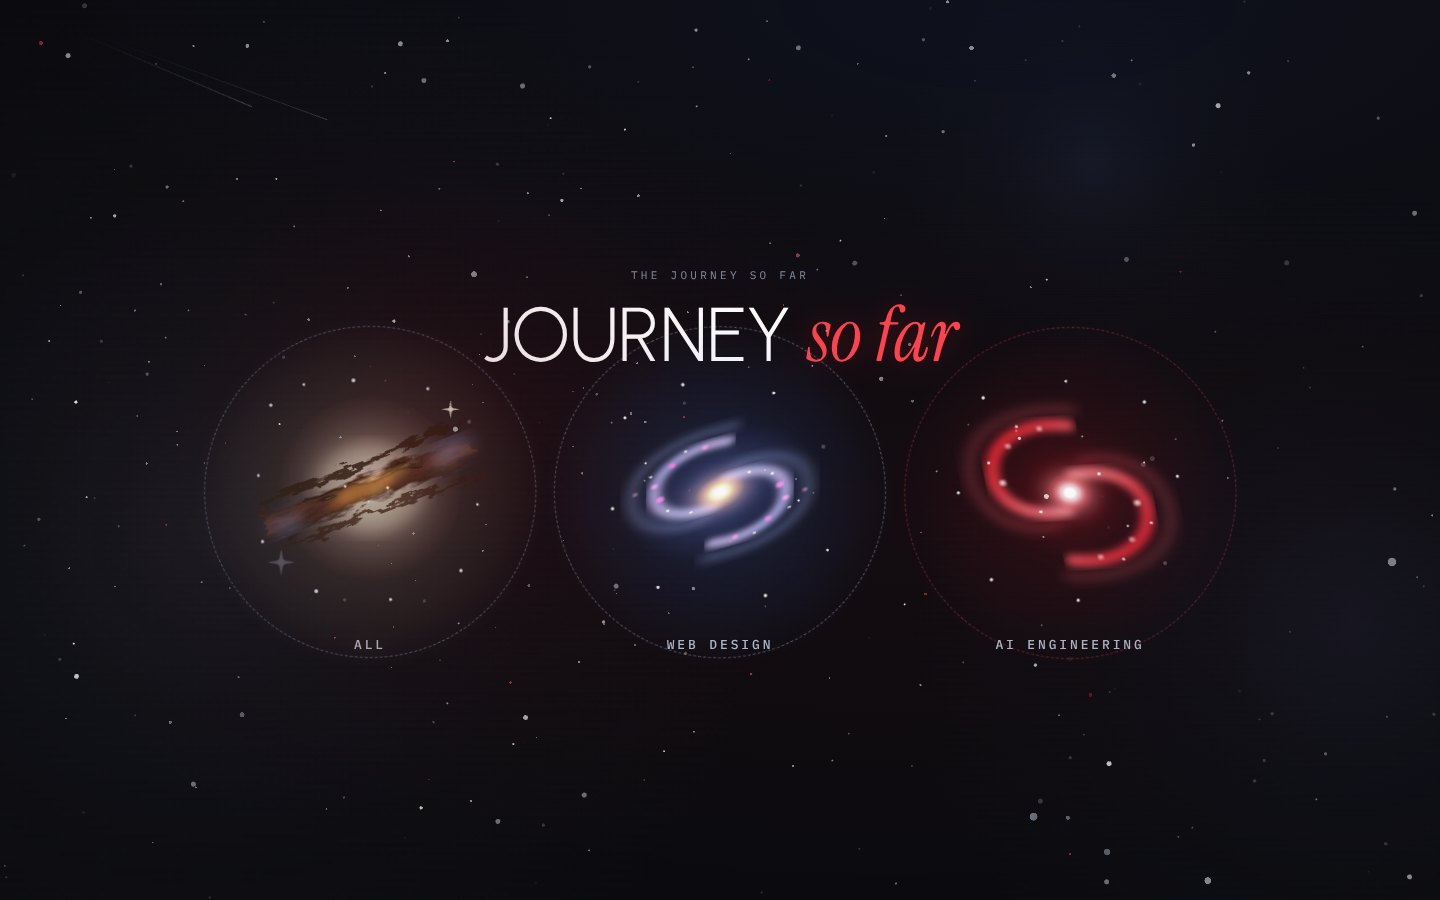
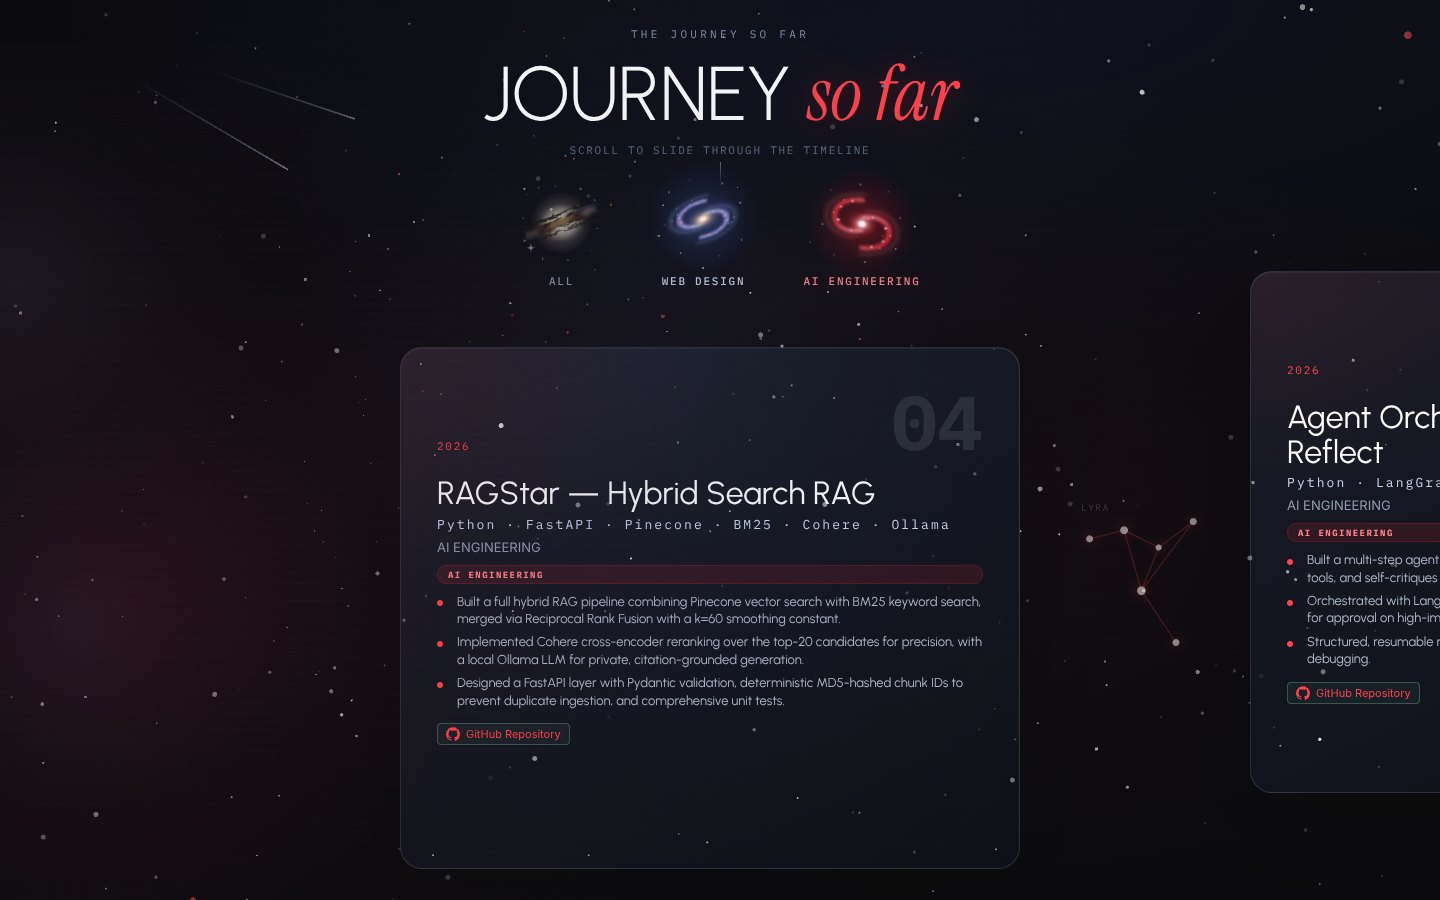
Finder opens on Projects, Journey on AI; fix Terminal first click
- Observer Finder opens on Projects with larger cards (two-line descriptions);
  all six AI projects fit at once, OpenJev and later additions scroll.
- Dock Terminal glitch: the full-screen class was only applied when the
  overlay was reused, so the first click rendered it off-screen. Apply it
  on creation too, and hold the effect 0.5s longer (1.2s -> 1.7s).
- Journey So Far opens on the AI Engineering tab and adds Jericho, Semantic
  Cache, Zetsu and OpenJev (in development) cards.
- README text and screenshots updated.

Claude-Session: https://claude.ai/code/session_015pYCkSWb3QZMS1jhky79RR

diff --git a/index.html b/index.html
@@ -392,9 +392,9 @@
   .finder-smile-overlay svg{width:min(72%,340px);height:auto;filter:drop-shadow(0 24px 70px rgba(0,0,0,.55));transform:rotate(-8deg)}
 
   /* ---- Finder Projects — observer-style clickable cards ---- */
-  .desktop-pane .df-cards{grid-column:1/-1;display:grid;grid-template-columns:repeat(auto-fill,minmax(180px,1fr));gap:var(--space-4);padding:10px 6px 12px 2px;
-    max-height:min(31rem,62vh);overflow-y:auto;scrollbar-width:thin;scrollbar-color:transparent transparent;transition:scrollbar-color .3s}
-  /* the grid scrolls once it outgrows the pane (more than six cards); its scrollbar shows on hover */
+  .desktop-pane .df-cards{grid-column:1/-1;display:grid;grid-template-columns:repeat(auto-fill,minmax(210px,1fr));gap:var(--space-4);padding:14px 6px 14px 2px;
+    max-height:38rem;overflow-y:auto;scrollbar-width:thin;scrollbar-color:transparent transparent;transition:scrollbar-color .3s}
+  /* six cards (three rows) fit; the grid scrolls once it outgrows that, its scrollbar shows on hover */
   .desktop-pane .df-cards:hover{scrollbar-color:rgba(233,228,223,.28) transparent}
   .desktop-pane .df-cards::-webkit-scrollbar{width:6px}
   .desktop-pane .df-cards::-webkit-scrollbar-thumb{background:transparent;border-radius:99px}
@@ -404,7 +404,7 @@
     font-family:var(--font-mono);font-size:var(--text-2xs);font-weight:500;letter-spacing:.08em;text-transform:uppercase;text-decoration:none;
     color:#ffd9dc;background:rgba(211,18,31,.22);border:1px solid rgba(255,59,71,.45);transition:background .2s,color .2s,box-shadow .2s}
   .desktop-pane .df-card__live:hover,.desktop-pane .df-card__live:focus-visible{background:#d3121f;color:#fff;box-shadow:0 0 16px rgba(211,18,31,.6)}
-  .desktop-pane .df-card{position:relative;display:flex;flex-direction:column;justify-content:space-between;height:9rem;user-select:none;border:2px solid rgba(174,182,200,.16);border-radius:12px;background:rgba(20,22,30,.66);padding:12px 14px;transform:skewY(-4deg);transition:border-color .6s ease,background .6s ease,filter .6s ease,transform .6s ease;filter:grayscale(1);box-shadow:0 18px 50px rgba(0,0,0,.3);cursor:pointer;text-decoration:none;color:inherit;overflow:hidden}
+  .desktop-pane .df-card{position:relative;display:flex;flex-direction:column;justify-content:space-between;height:10.5rem;user-select:none;border:2px solid rgba(174,182,200,.16);border-radius:12px;background:rgba(20,22,30,.66);padding:12px 14px;transform:skewY(-4deg);transition:border-color .6s ease,background .6s ease,filter .6s ease,transform .6s ease;filter:grayscale(1);box-shadow:0 18px 50px rgba(0,0,0,.3);cursor:pointer;text-decoration:none;color:inherit;overflow:hidden}
   .desktop-pane .df-card::before{content:"";position:absolute;inset:0;border-radius:10px;background:rgba(3,3,7,.38);transition:opacity .6s ease;pointer-events:none}
   .desktop-pane .df-card::after{content:"";position:absolute;top:-4%;right:-3px;width:70%;height:108%;background:linear-gradient(to left,#030307,transparent);pointer-events:none}
   .desktop-pane .df-card:hover,.desktop-pane .df-card.is-selected{border-color:rgba(255,255,255,.24);background:rgba(28,30,40,.85);filter:grayscale(0);transform:skewY(-4deg) translateY(-8px)}
@@ -412,13 +412,14 @@
   .desktop-pane .df-card__row,.desktop-pane .df-card__desc,.desktop-pane .df-card__date{position:relative;z-index:1}
   .desktop-pane .df-card__row{display:flex;align-items:center;gap:var(--space-2)}
   .desktop-pane .df-card__icon{display:inline-flex;width:20px;height:20px;align-items:center;justify-content:center;border-radius:999px;font-size:var(--text-sm);flex-shrink:0}
-  .desktop-pane .df-card__title{font-family:var(--font-mono);font-size:var(--text-sm);color:var(--silver);letter-spacing:var(--tr-normal);overflow:hidden;text-overflow:ellipsis;white-space:nowrap}
+  .desktop-pane .df-card__title{font-family:var(--font-mono);font-size:var(--text-base);color:var(--silver);letter-spacing:var(--tr-normal);overflow:hidden;text-overflow:ellipsis;white-space:nowrap}
   .desktop-pane .df-card__tag{font-family:var(--font-mono);font-size:var(--text-2xs);font-weight:700;letter-spacing:var(--tr-wide);padding:2px 7px;border-radius:999px;line-height:1.3;margin-left:auto;white-space:nowrap;flex-shrink:0}
   .desktop-pane .df-card__tag--web{background:rgba(47,107,255,.18);color:#a9c1ff;border:1px solid rgba(47,107,255,.3)}
   .desktop-pane .df-card__tag--ai{background:rgba(211,18,31,.18);color:#ff8088;border:1px solid rgba(211,18,31,.3)}
   .desktop-pane .df-card__tag--fullstack{background:rgba(179,33,158,.18);color:#e7a3dc;border:1px solid rgba(179,33,158,.3)}
   .desktop-pane .df-card__tag--mobile{background:rgba(255,106,19,.18);color:#ffb27d;border:1px solid rgba(255,106,19,.3)}
-  .desktop-pane .df-card__desc{font-size:var(--text-sm);color:#d4d0c6;margin-top:auto;padding-bottom:2px;overflow:hidden;text-overflow:ellipsis;white-space:nowrap}
+  .desktop-pane .df-card__desc{font-size:var(--text-sm);color:#d4d0c6;margin-top:auto;padding-bottom:2px;line-height:1.4;overflow:hidden;display:-webkit-box;-webkit-box-orient:vertical;-webkit-line-clamp:2}
+  .desktop-pane .df-card:has(.df-card__live) .df-card__desc{padding-right:64px}
   .desktop-pane .df-card__date{font-family:var(--font-mono);font-size:var(--text-2xs);letter-spacing:var(--tr-label);color:#8f98ad}
 
   /* ---- AI Agents — architecture map ---- */
@@ -579,6 +580,8 @@
   .journey-viewport.is-open .journey-card:nth-child(6){animation-delay:.35s}
   .journey-viewport.is-open .journey-card:nth-child(7){animation-delay:.42s}
   .journey-viewport.is-open .journey-card:nth-child(8){animation-delay:.49s}
+  .journey-viewport.is-open .journey-card:nth-child(9){animation-delay:.56s}
+  .journey-viewport.is-open .journey-card:nth-child(10){animation-delay:.63s}
   @keyframes jcardIn{from{opacity:0;transform:translateY(46px) scale(.97)}to{opacity:1;transform:none}}
   @media (prefers-reduced-motion:reduce){.journey-viewport.is-idle .jgal,.journey-viewport.is-idle .jgal::before,.journey-viewport.is-idle .jgal::after,.journey-viewport.is-open .journey-card{animation:none}}
   .journey-card[data-hidden]{display:none!important}
@@ -1238,8 +1241,8 @@
       <div class="desktop-grid">
         <aside class="desktop-sidebar" aria-label="Finder sidebar">
           <span class="sb-head">Favorites</span>
-          <span class="sb-item is-active" data-section="all"><i></i>All Work</span>
-          <span class="sb-item sb-item--proj" data-section="projects"><i></i>Projects</span>
+          <span class="sb-item" data-section="all"><i></i>All Work</span>
+          <span class="sb-item sb-item--proj is-active" data-section="projects"><i></i>Projects</span>
           <span class="sb-item sb-item--case" data-section="agents"><i></i>AI Agents</span>
           <span class="sb-item sb-item--web" data-section="web"><i></i>Web &amp; Apps</span>
           <span class="sb-head">Locations</span>
@@ -1247,7 +1250,7 @@
         </aside>
         <div class="desktop-pane">
           <div class="desktop-pane-head">
-            <h2 id="desktopTitle">All Work</h2>
+            <h2 id="desktopTitle">Projects</h2>
             <small id="desktopMeta">10 items · updated today</small>
           </div>
           <div class="desktop-files" id="desktopFiles">
@@ -1627,6 +1630,95 @@
         </ul>
         <div style="margin-top:14px">
           <a href="https://github.com/Alistair77/agent-evals" target="_blank" class="quick-look-link" style="display:inline-flex;align-items:center;gap:6px">
+            <svg style="width:14px;height:14px;fill:currentColor;vertical-align:middle" viewBox="0 0 24 24"><path d="M12 .297c-6.63 0-12 5.373-12 12 0 5.303 3.438 9.8 8.205 11.385.6.113.82-.258.82-.577 0-.285-.01-1.04-.015-2.04-3.338.724-4.042-1.61-4.042-1.61C4.422 18.07 3.633 17.7 3.633 17.7c-1.087-.744.084-.729.084-.729 1.205.084 1.838 1.236 1.838 1.236 1.07 1.835 2.809 1.305 3.495.998.108-.776.417-1.305.76-1.605-2.665-.3-5.466-1.332-5.466-5.93 0-1.31.465-2.38 1.235-3.22-.135-.303-.54-1.523.105-3.176 0 0 1.005-.322 3.3 1.23.96-.267 1.98-.399 3-.405 1.02.006 2.04.138 3 .405 2.28-1.552 3.285-1.23 3.285-1.23.645 1.653.24 2.873.12 3.176.765.84 1.23 1.91 1.23 3.22 0 4.61-2.805 5.625-5.475 5.92.42.36.81 1.096.81 2.22 0 1.606-.015 2.896-.015 3.286 0 .315.21.69.825.57C20.565 22.092 24 17.592 24 12.297c0-6.627-5.373-12-12-12"/></svg>
+            GitHub Repository
+          </a>
+        </div>
+      </article></div>
+      <div class="journey-card" data-category="ai"><svg class="jc jc--right" viewBox="0 0 200 280" aria-hidden="true">
+        <path d="M40 60 L80 50 L120 70 L160 40 M80 50 L100 120 L160 40 M120 70 L100 120 L140 180"/>
+        <circle cx="40" cy="60" r="4"/><circle cx="80" cy="50" r="4.5"/><circle cx="120" cy="70" r="3.5"/><circle cx="160" cy="40" r="4"/><circle cx="100" cy="120" r="5"/><circle cx="140" cy="180" r="4"/>
+        <text x="30" y="28">CRUX</text>
+      </svg><article class="journey-card__inner" style="--i:7">
+        <div class="journey-card__top"><p class="slide-date">2026</p><span class="journey-card__no">07</span></div>
+        <h3>Jericho — Live AI Agent Dashboard</h3>
+        <span class="slide-role">Three.js · Claude Code hooks · Shell · Python</span>
+        <span class="slide-meta">AI ENGINEERING</span>
+        <span class="slide-cat slide-cat--ai">AI ENGINEERING</span>
+        <ul class="journey-bullets">
+          <li>A live 3D Mars base where each of 30 Claude Code skills is a crew bot — when a skill really runs, its bot walks to its building and a progress bar fills above it.</li>
+          <li>A ~30-line Claude Code hook (PreToolUse / PostToolUse) writes the actual skill start and finish to a status file the page reads — idle means idle, no fake activity.</li>
+          <li>One HTML file with no install or build step: five weather modes, a calm notifications panel and real Mars time at Jezero Crater.</li>
+        </ul>
+        <div style="margin-top:14px">
+          <a href="https://github.com/Alistair77/Jericho-Agentic-Space-Station" target="_blank" class="quick-look-link" style="display:inline-flex;align-items:center;gap:6px">
+            <svg style="width:14px;height:14px;fill:currentColor;vertical-align:middle" viewBox="0 0 24 24"><path d="M12 .297c-6.63 0-12 5.373-12 12 0 5.303 3.438 9.8 8.205 11.385.6.113.82-.258.82-.577 0-.285-.01-1.04-.015-2.04-3.338.724-4.042-1.61-4.042-1.61C4.422 18.07 3.633 17.7 3.633 17.7c-1.087-.744.084-.729.084-.729 1.205.084 1.838 1.236 1.838 1.236 1.07 1.835 2.809 1.305 3.495.998.108-.776.417-1.305.76-1.605-2.665-.3-5.466-1.332-5.466-5.93 0-1.31.465-2.38 1.235-3.22-.135-.303-.54-1.523.105-3.176 0 0 1.005-.322 3.3 1.23.96-.267 1.98-.399 3-.405 1.02.006 2.04.138 3 .405 2.28-1.552 3.285-1.23 3.285-1.23.645 1.653.24 2.873.12 3.176.765.84 1.23 1.91 1.23 3.22 0 4.61-2.805 5.625-5.475 5.92.42.36.81 1.096.81 2.22 0 1.606-.015 2.896-.015 3.286 0 .315.21.69.825.57C20.565 22.092 24 17.592 24 12.297c0-6.627-5.373-12-12-12"/></svg>
+            GitHub Repository
+          </a>
+          <a href="https://alistair77.github.io/Jericho-Agentic-Space-Station/" target="_blank" rel="noopener" class="quick-look-link" style="display:inline-flex;align-items:center;gap:6px;margin-left:8px">Live ↗</a>
+        </div>
+      </article></div>
+      <div class="journey-card" data-category="ai"><svg class="jc jc--left" viewBox="0 0 200 280" aria-hidden="true">
+        <path d="M40 60 L80 50 L120 70 L160 40 M80 50 L100 120 L160 40 M120 70 L100 120 L140 180"/>
+        <circle cx="40" cy="60" r="4"/><circle cx="80" cy="50" r="4.5"/><circle cx="120" cy="70" r="3.5"/><circle cx="160" cy="40" r="4"/><circle cx="100" cy="120" r="5"/><circle cx="140" cy="180" r="4"/>
+        <text x="30" y="28">PYXIS</text>
+      </svg><article class="journey-card__inner" style="--i:8">
+        <div class="journey-card__top"><p class="slide-date">2026</p><span class="journey-card__no">08</span></div>
+        <h3>Semantic Cache — LLMOps for Claude</h3>
+        <span class="slide-role">Python · FastAPI · FAISS · MiniLM embeddings · Claude API</span>
+        <span class="slide-meta">AI ENGINEERING</span>
+        <span class="slide-cat slide-cat--ai">AI ENGINEERING</span>
+        <ul class="journey-bullets">
+          <li>A FastAPI proxy in front of Claude API calls that answers repeated or near-duplicate prompts from a FAISS vector cache (cosine ≥ 0.90) instead of calling the model.</li>
+          <li>Against the live RAG service a cached answer returns in ~84 ms vs ~34 s uncached; a 50-prompt benchmark hits 64% with an 18× speed-up on hits.</li>
+          <li>TTL expiry, purge / invalidate endpoints and a /metrics view of tokens and cost saved; agent runs are deliberately not cached because they have side effects. 25 tests.</li>
+        </ul>
+        <div style="margin-top:14px">
+          <a href="https://github.com/Alistair77/semantic-cache" target="_blank" class="quick-look-link" style="display:inline-flex;align-items:center;gap:6px">
+            <svg style="width:14px;height:14px;fill:currentColor;vertical-align:middle" viewBox="0 0 24 24"><path d="M12 .297c-6.63 0-12 5.373-12 12 0 5.303 3.438 9.8 8.205 11.385.6.113.82-.258.82-.577 0-.285-.01-1.04-.015-2.04-3.338.724-4.042-1.61-4.042-1.61C4.422 18.07 3.633 17.7 3.633 17.7c-1.087-.744.084-.729.084-.729 1.205.084 1.838 1.236 1.838 1.236 1.07 1.835 2.809 1.305 3.495.998.108-.776.417-1.305.76-1.605-2.665-.3-5.466-1.332-5.466-5.93 0-1.31.465-2.38 1.235-3.22-.135-.303-.54-1.523.105-3.176 0 0 1.005-.322 3.3 1.23.96-.267 1.98-.399 3-.405 1.02.006 2.04.138 3 .405 2.28-1.552 3.285-1.23 3.285-1.23.645 1.653.24 2.873.12 3.176.765.84 1.23 1.91 1.23 3.22 0 4.61-2.805 5.625-5.475 5.92.42.36.81 1.096.81 2.22 0 1.606-.015 2.896-.015 3.286 0 .315.21.69.825.57C20.565 22.092 24 17.592 24 12.297c0-6.627-5.373-12-12-12"/></svg>
+            GitHub Repository
+          </a>
+        </div>
+      </article></div>
+      <div class="journey-card" data-category="ai"><svg class="jc jc--right" viewBox="0 0 200 280" aria-hidden="true">
+        <path d="M40 60 L80 50 L120 70 L160 40 M80 50 L100 120 L160 40 M120 70 L100 120 L140 180"/>
+        <circle cx="40" cy="60" r="4"/><circle cx="80" cy="50" r="4.5"/><circle cx="120" cy="70" r="3.5"/><circle cx="160" cy="40" r="4"/><circle cx="100" cy="120" r="5"/><circle cx="140" cy="180" r="4"/>
+        <text x="30" y="28">CETUS</text>
+      </svg><article class="journey-card__inner" style="--i:9">
+        <div class="journey-card__top"><p class="slide-date">2026</p><span class="journey-card__no">09</span></div>
+        <h3>Zetsu — Local Voice Agent</h3>
+        <span class="slide-role">Python · whisper.cpp · Ollama · Claude Code · VAD</span>
+        <span class="slide-meta">AI ENGINEERING</span>
+        <span class="slide-cat slide-cat--ai">AI ENGINEERING</span>
+        <ul class="journey-bullets">
+          <li>A voice-first assistant that runs entirely on the laptop — wake word, follow-ups without re-summoning, and barge-in that stops it mid-word. No API keys, no audio leaves the machine.</li>
+          <li>Kept the speech model warm in a server: recognition went from 1.26 s to 0.15 s per slice (8× faster), and local qwen2.5:3b replies start in 0.23 s.</li>
+          <li>A safety gate asks before every consequential tool action, and a live operations console shows the orb, the current run, the queue and the audit trail.</li>
+        </ul>
+        <div style="margin-top:14px">
+          <a href="https://github.com/Alistair77/zetsu-voice-agent" target="_blank" class="quick-look-link" style="display:inline-flex;align-items:center;gap:6px">
+            <svg style="width:14px;height:14px;fill:currentColor;vertical-align:middle" viewBox="0 0 24 24"><path d="M12 .297c-6.63 0-12 5.373-12 12 0 5.303 3.438 9.8 8.205 11.385.6.113.82-.258.82-.577 0-.285-.01-1.04-.015-2.04-3.338.724-4.042-1.61-4.042-1.61C4.422 18.07 3.633 17.7 3.633 17.7c-1.087-.744.084-.729.084-.729 1.205.084 1.838 1.236 1.838 1.236 1.07 1.835 2.809 1.305 3.495.998.108-.776.417-1.305.76-1.605-2.665-.3-5.466-1.332-5.466-5.93 0-1.31.465-2.38 1.235-3.22-.135-.303-.54-1.523.105-3.176 0 0 1.005-.322 3.3 1.23.96-.267 1.98-.399 3-.405 1.02.006 2.04.138 3 .405 2.28-1.552 3.285-1.23 3.285-1.23.645 1.653.24 2.873.12 3.176.765.84 1.23 1.91 1.23 3.22 0 4.61-2.805 5.625-5.475 5.92.42.36.81 1.096.81 2.22 0 1.606-.015 2.896-.015 3.286 0 .315.21.69.825.57C20.565 22.092 24 17.592 24 12.297c0-6.627-5.373-12-12-12"/></svg>
+            GitHub Repository
+          </a>
+        </div>
+      </article></div>
+      <div class="journey-card" data-category="ai"><svg class="jc jc--left" viewBox="0 0 200 280" aria-hidden="true">
+        <path d="M40 60 L80 50 L120 70 L160 40 M80 50 L100 120 L160 40 M120 70 L100 120 L140 180"/>
+        <circle cx="40" cy="60" r="4"/><circle cx="80" cy="50" r="4.5"/><circle cx="120" cy="70" r="3.5"/><circle cx="160" cy="40" r="4"/><circle cx="100" cy="120" r="5"/><circle cx="140" cy="180" r="4"/>
+        <text x="30" y="28">LUPUS</text>
+      </svg><article class="journey-card__inner" style="--i:10">
+        <div class="journey-card__top"><p class="slide-date">2026 — In development</p><span class="journey-card__no">10</span></div>
+        <h3>OpenJev — Typed Decision Intelligence</h3>
+        <span class="slide-role">Python · FastAPI · Pydantic · TypeScript SDK</span>
+        <span class="slide-meta">AI ENGINEERING</span>
+        <span class="slide-cat slide-cat--ai">AI ENGINEERING</span>
+        <ul class="journey-bullets">
+          <li>Send one state plus named questions and get back probabilities, confidence and an audit trace instead of a paragraph of prose.</li>
+          <li>Honest abstention: confidence is 1 − normalised entropy, and below the threshold the answer says so instead of guessing.</li>
+          <li>Local-first deterministic baseline with no API key, plus a trainable research scorer that reports accuracy, log-loss, Brier and ECE. Still in development.</li>
+        </ul>
+        <div style="margin-top:14px">
+          <a href="https://github.com/Alistair77/openjev" target="_blank" class="quick-look-link" style="display:inline-flex;align-items:center;gap:6px">
             <svg style="width:14px;height:14px;fill:currentColor;vertical-align:middle" viewBox="0 0 24 24"><path d="M12 .297c-6.63 0-12 5.373-12 12 0 5.303 3.438 9.8 8.205 11.385.6.113.82-.258.82-.577 0-.285-.01-1.04-.015-2.04-3.338.724-4.042-1.61-4.042-1.61C4.422 18.07 3.633 17.7 3.633 17.7c-1.087-.744.084-.729.084-.729 1.205.084 1.838 1.236 1.838 1.236 1.07 1.835 2.809 1.305 3.495.998.108-.776.417-1.305.76-1.605-2.665-.3-5.466-1.332-5.466-5.93 0-1.31.465-2.38 1.235-3.22-.135-.303-.54-1.523.105-3.176 0 0 1.005-.322 3.3 1.23.96-.267 1.98-.399 3-.405 1.02.006 2.04.138 3 .405 2.28-1.552 3.285-1.23 3.285-1.23.645 1.653.24 2.873.12 3.176.765.84 1.23 1.91 1.23 3.22 0 4.61-2.805 5.625-5.475 5.92.42.36.81 1.096.81 2.22 0 1.606-.015 2.896-.015 3.286 0 .315.21.69.825.57C20.565 22.092 24 17.592 24 12.297c0-6.627-5.373-12-12-12"/></svg>
             GitHub Repository
           </a>
@@ -3604,6 +3696,8 @@ void main() {
         tabHandlers.push(()=> tab.removeEventListener('click', handler));
       });
       this._tabCleanup = ()=> tabHandlers.forEach(f=>f());
+      const aiTab = journeyTabs.find(t=> t.dataset.tab === 'ai');
+      if(aiTab) aiTab.click();
     }
 
     // ---- personal journey swiper ----
@@ -3844,7 +3938,7 @@ void main() {
     const qlActionLink = document.querySelector('#quickLookActionLink');
 
     let finderHistory = [];
-    let currentFolderKey = 'all';
+    let currentFolderKey = 'projects';
 
     // Helper to open Quick Look Modal
     window.openQuickLook = (fileUrl, title, demoUrl) => {
@@ -4042,11 +4136,9 @@ void main() {
         overlay = document.createElement('div');
         overlay.id = 'codingGlitch';
         overlay.className = 'glitch-overlay';
-        host.appendChild(overlay);
-      } else {
-        overlay.classList.toggle('glitch-overlay--full', !!full);
-        if (overlay.parentElement !== host) host.appendChild(overlay);
       }
+      overlay.classList.toggle('glitch-overlay--full', !!full);
+      if (overlay.parentElement !== host) host.appendChild(overlay);
       if (glitchHandle && glitchHandle.stop) {
         glitchHandle.stop();
         glitchHandle = null;
@@ -4057,7 +4149,7 @@ void main() {
       if (wipe) overlay.classList.add('is-wipe');
       overlay.classList.add('is-active');
       glitchHandle = createLetterGlitch(overlay, { glitchSpeed: 55, smooth: true });
-      const duration = full ? 1200 : 3400;
+      const duration = full ? 1700 : 3400;
       setTimeout(() => {
         if (!overlay.classList.contains('is-active')) return;
         overlay.classList.add('is-fade');
@@ -4348,9 +4440,9 @@ void main() {
 
     // ---- GitHub auto-sync: projects tagged with the `portfolio` topic appear
     //      automatically in the Finder. Fetched client-side, cached for 15 min. ----
-    // Render the All Work view once so curated additions show immediately (offline-safe)
-    if (currentFolderKey === 'all' && !finderHistory.length && desktopFiles.querySelector('.desktop-file, .df-card')) {
-      renderFolder('all', 'All Work', false);
+    // Open on Projects (replaces the static All Work markup; offline-safe)
+    if (currentFolderKey === 'projects' && !finderHistory.length) {
+      renderFolder('projects', 'Projects', false);
     }
     const SYNC_CACHE_KEY = 'cosmos_gh_projects_v1';
     const SYNC_CACHE_TTL = 15 * 60 * 1000;

diff --git a/README.md b/README.md
@@ -27,16 +27,16 @@ A black hole drawn like an engraving: hair-thin orbital streaks banded in crimso
 A scrolling brand marquee (Vercel, Linear, Stripe…) on a 3D tilt.
 
 ### The Observer — selected work
-A poetic intro over the starfield, then a macOS-style Finder window. **Projects** shows the six AI projects plus OpenJev (marked *in development*) — the grid scrolls on hover once it outgrows the pane. **Web & Apps** holds the Professional Portfolio, the Bizora Media site, The System (3D portfolio), PyLearnWeb, the earlier web projects and the Android apps. Cards for deployed projects carry a **Live ↗** button that opens the GitHub Pages site. Also **AI Agents** (an interactive architecture map) and **Résumé**, with Quick Look previews. Repositories tagged `portfolio` on GitHub appear automatically, and live links are picked up from each repo's homepage / Pages setting.
+A poetic intro over the starfield, then a macOS-style Finder window that opens on **Projects**: the six AI projects as large cards (all six visible at once) plus OpenJev (marked *in development*) — the grid scrolls on hover once it outgrows six. **Web & Apps** holds the Professional Portfolio, the Bizora Media site, The System (3D portfolio), PyLearnWeb, the earlier web projects and the Android apps. Cards for deployed projects carry a **Live ↗** button that opens the GitHub Pages site. Also **AI Agents** (an interactive architecture map) and **Résumé**, with Quick Look previews. Repositories tagged `portfolio` on GitHub appear automatically, and live links are picked up from each repo's homepage / Pages setting.
 
 ![The Observer](docs/screenshots/observer.jpg)
 ![Finder — Projects](docs/screenshots/work.jpg)
 
 ### Journey So Far
-Pick a galaxy — **All**, **Web Design** or **AI Engineering** — and the timeline opens as horizontally scrolling project cards (stack, highlights, screenshots, GitHub links), linked by constellations.
+Opens on **AI Engineering** — RAGStar, Agent Orchestrator, Agent Evals, Jericho, Semantic Cache, Zetsu and OpenJev — as horizontally scrolling project cards (stack, highlights, screenshots, GitHub / live links), linked by constellations. Pick **All** or **Web Design** to switch; click the open galaxy again to collapse back to the three-galaxy view.
 
-![Journey — galaxy tabs](docs/screenshots/journey.jpg)
-![Journey — project cards](docs/screenshots/journey-cards.jpg)
+![Journey — AI Engineering (default)](docs/screenshots/journey.jpg)
+![Journey — All](docs/screenshots/journey-cards.jpg)
 
 ### Personal Journey
 A coverflow carousel of photos from along the way.
